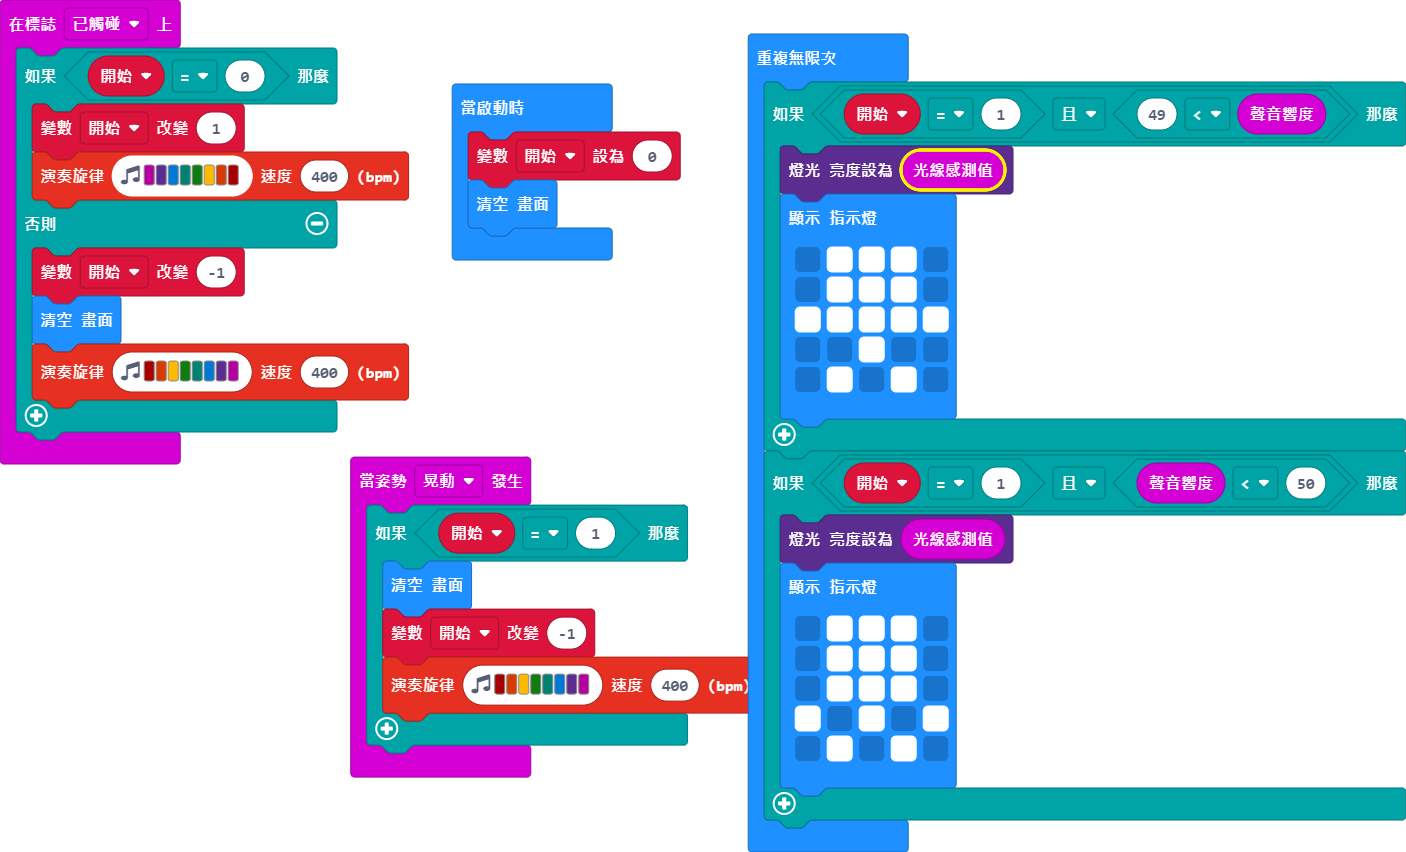
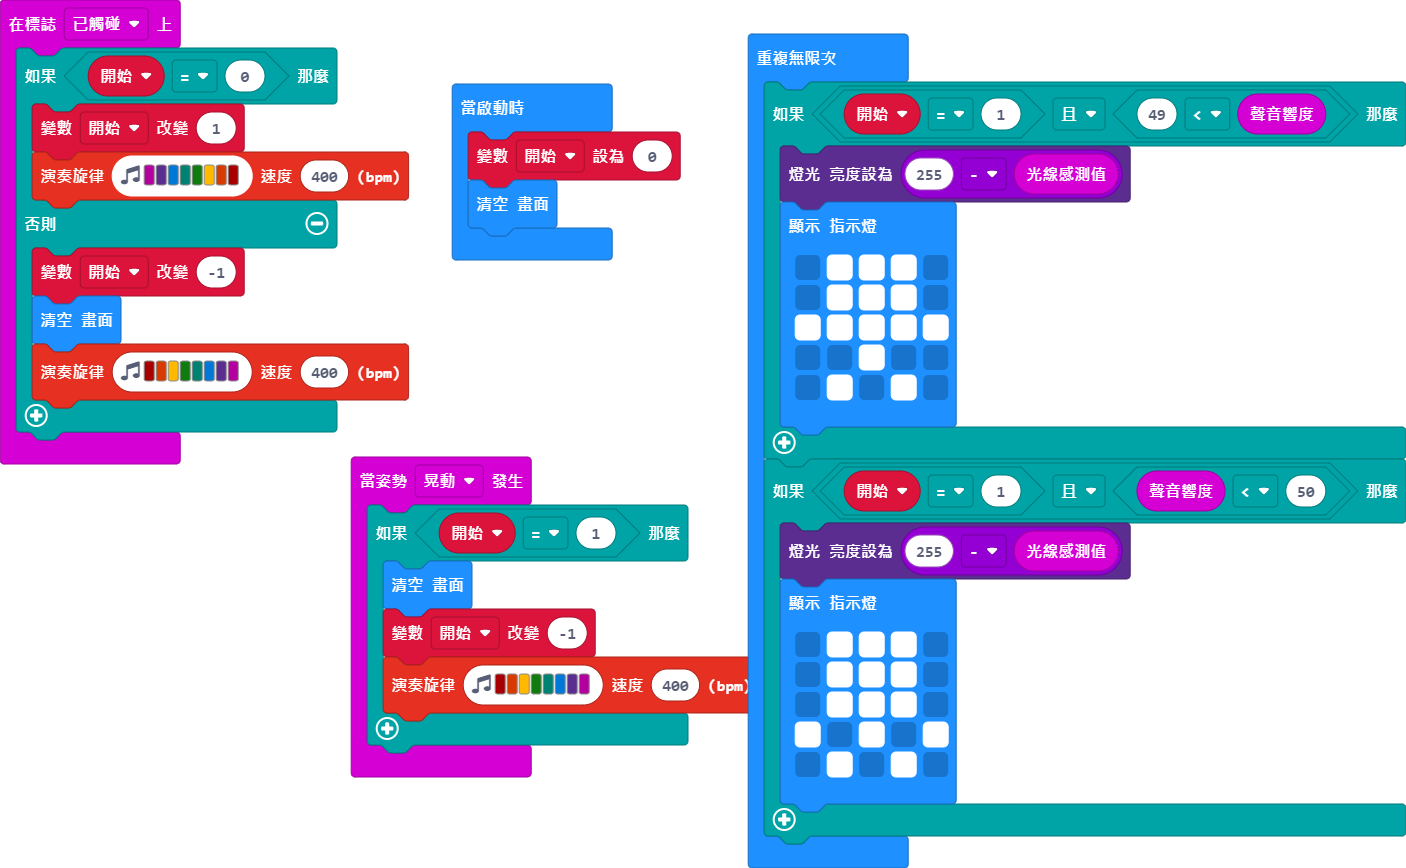
更新 main.blocks, main.ts

diff --git a/main.ts b/main.ts
@@ -20,7 +20,7 @@ let 開始 = 0
 basic.clearScreen()
 basic.forever(function () {
     if (開始 == 1 && 49 < input.soundLevel()) {
-        led.setBrightness(input.lightLevel())
+        led.setBrightness(255 - input.lightLevel())
         basic.showLeds(`
             . # # # .
             . # # # .
@@ -30,7 +30,7 @@ basic.forever(function () {
             `)
     }
     if (開始 == 1 && input.soundLevel() < 50) {
-        led.setBrightness(input.lightLevel())
+        led.setBrightness(255 - input.lightLevel())
         basic.showLeds(`
             . # # # .
             . # # # .
